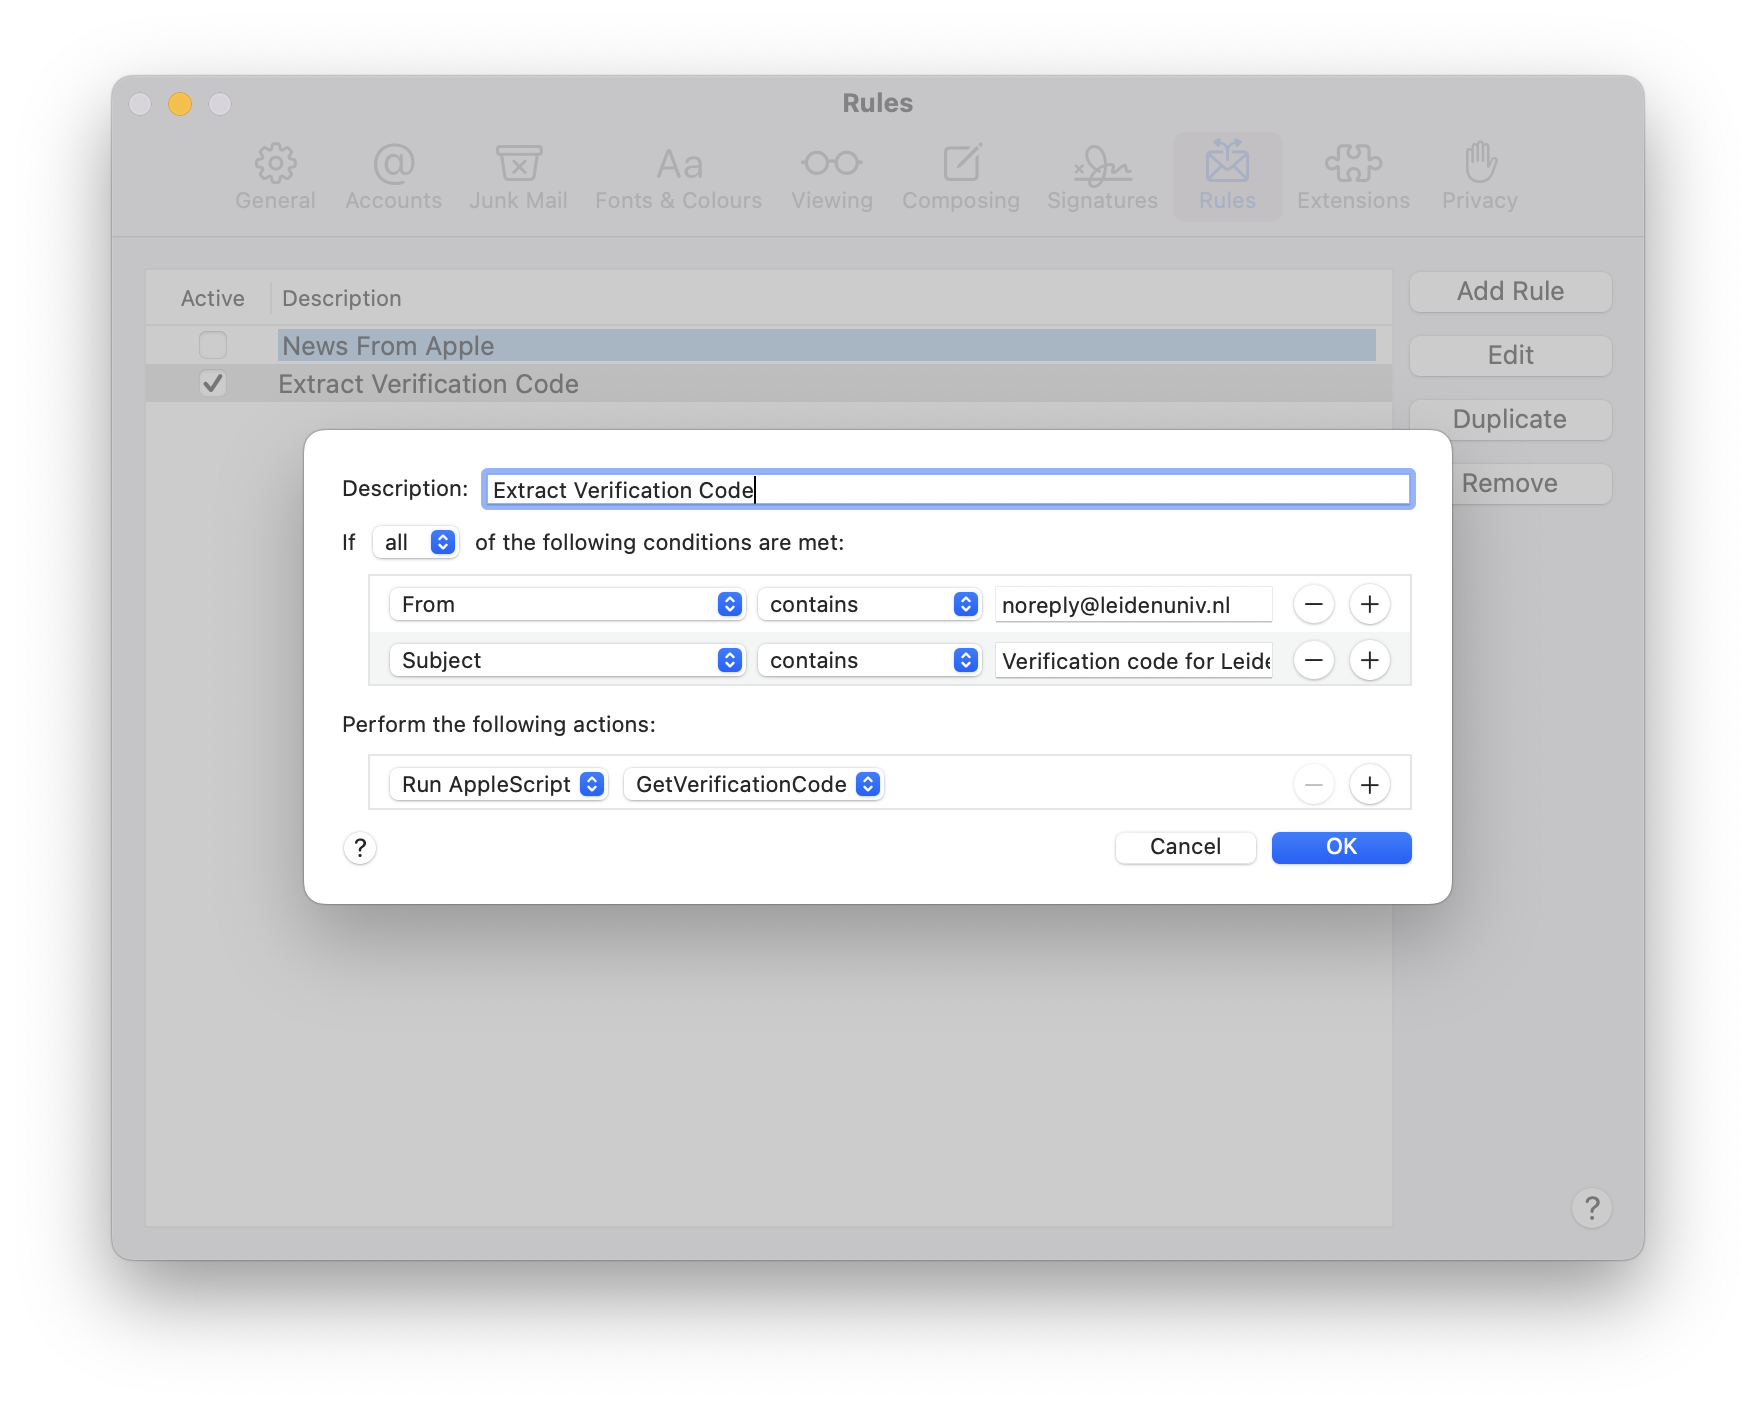
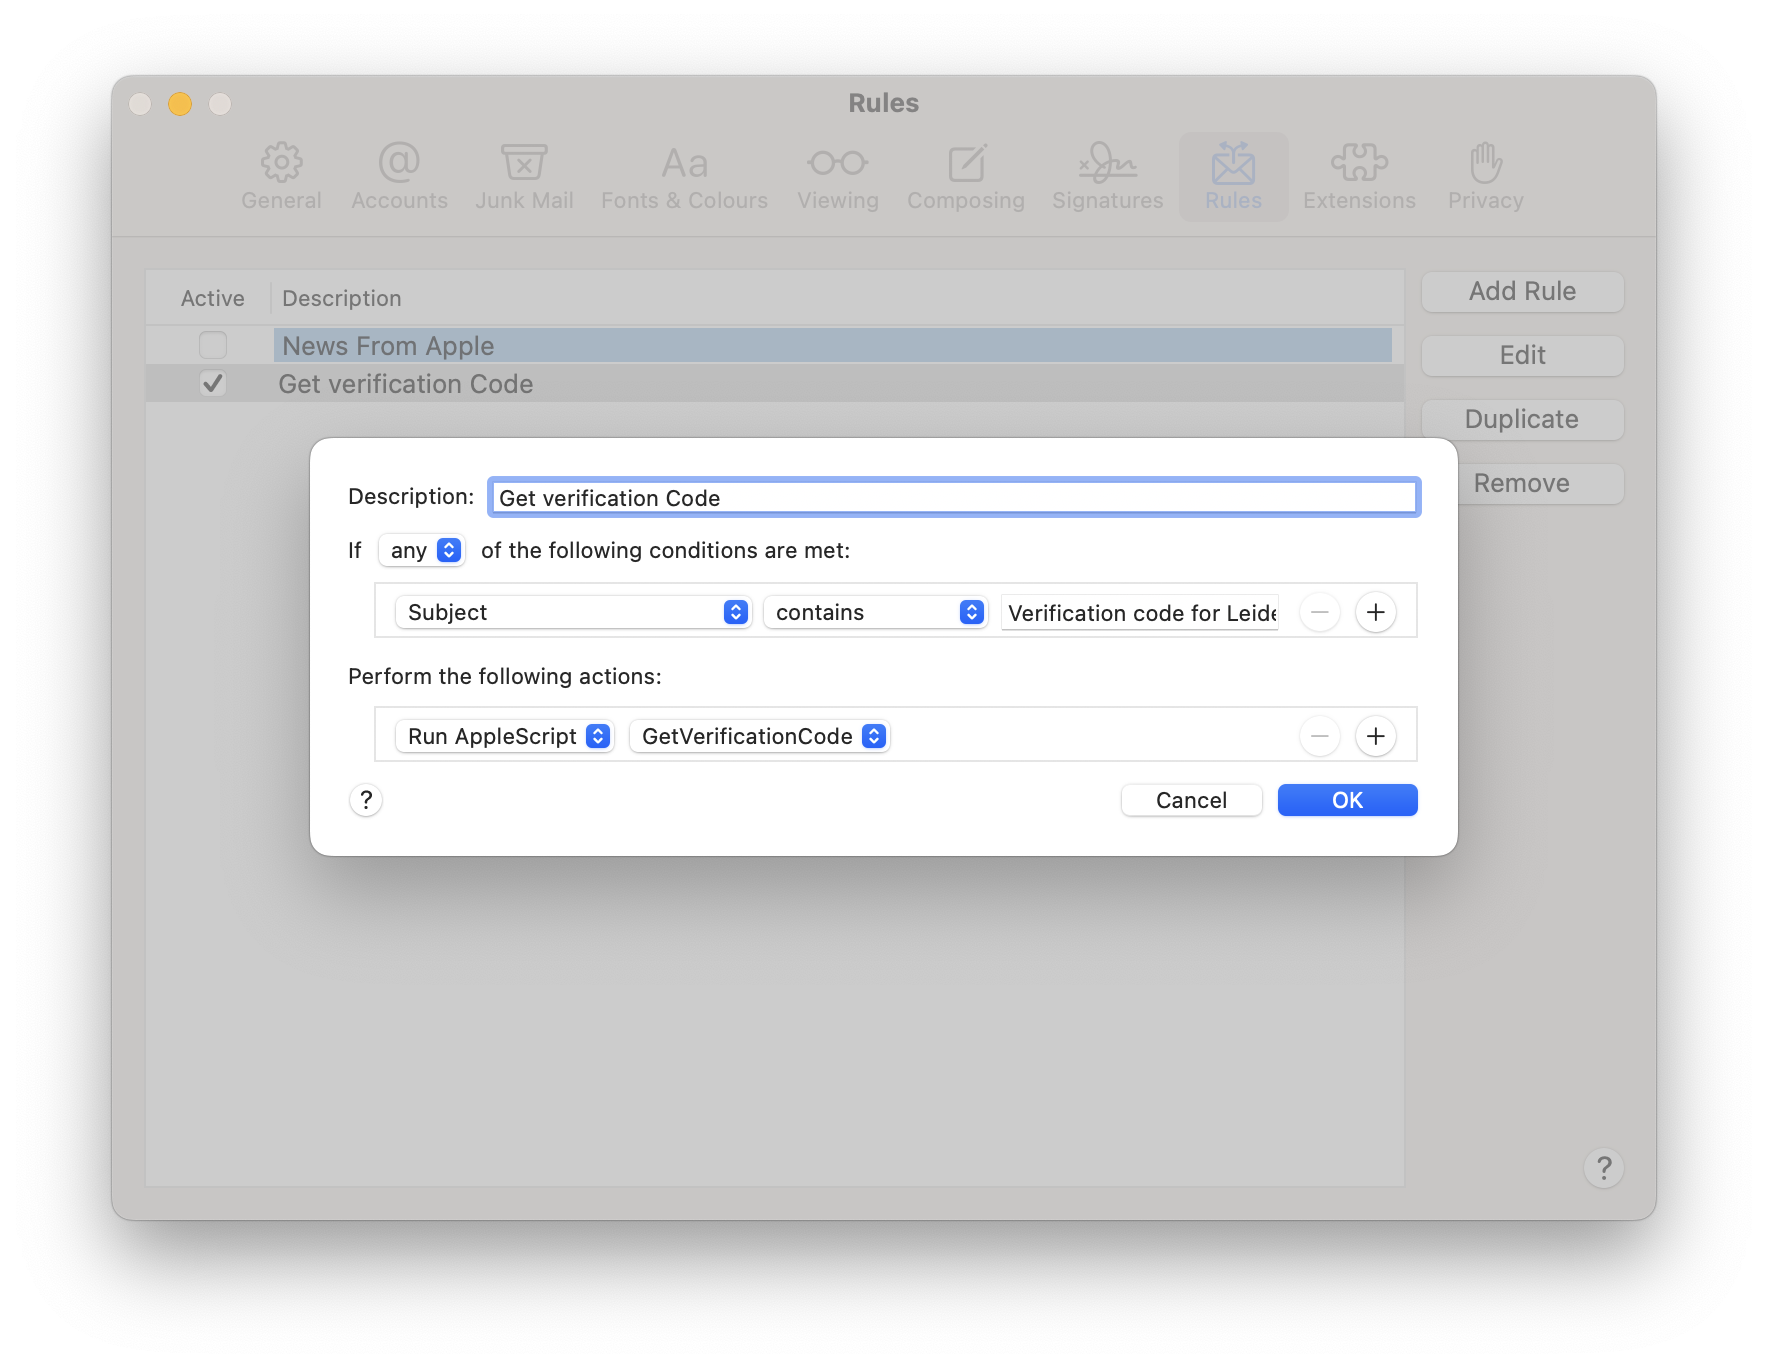
Update README.md
Should be a little bit cleaner now

diff --git a/README.md b/README.md
@@ -1,17 +1,14 @@
-leiden-login
-============
+# leiden-login
 
 Follow the instructions (**<5 min**) to never have to deal with copying and pasting verification codes again.
 
 This tool will extract the code as soon as the email hits your inbox and put it in your clipboard.
 
-All you will have to do is wait for the mail, and you can immediately paste the code.
+All you will have to do is wait for the mail to land in your inbox, and you can immediately paste the code (you'll hear a subtle chime when it's ready).
 
 The only prerequisites are that you are on macOS and use the default Mail app to receive emails.
 
-
-demo
-----
+## demo
 
 <fig>
 <img src="https://github.com/Josef-Hlink/leiden-login/blob/main/assets/demo.gif" width="960" alt="User logs in, gets a verification email and can paste the code immediately. The message is then automatically moved to trash."/>
@@ -19,13 +16,11 @@ demo
 
 As you can see, this should save you roughly 10 seconds when compared to manually copy-pasting, plus it keeps your inbox from being cluttered with countless verification codes.
 
-
-instructions
-------------
+## instructions
 
 ### step 1
 
-Download the script and move (`mv`) it to the the directory specified below.
+Download the script (_GetVerificationCode.applescript_) and move (`mv`) it to the the directory specified below.
 To do this just open a new terminal window and type the following two commands.
 
 ```bash
@@ -52,9 +47,6 @@ Click on "Add Rule", you should see this window pop up.
 
 Now you can simply fill in the forms to make it look like this:
 
-_! edit ! _ do not fill in the "From" rule, as this is apparently subject to change, the "Subject" rule should be specific enough.
-
-
 <fig>
 <img src="https://github.com/Josef-Hlink/leiden-login/blob/main/assets/rule-config.png" width="960" alt="Desired configuration for the new rule."/>
 </fig>
@@ -67,11 +59,15 @@ Verification code for Leiden University
 
 ### step 4
 
-Select the action to perform an applescript (the one you downloaded).
-If the script doesn't show up in this select menu, you can also just open this *magic* location in Finder and just drag the script into this folder.
+Select the action to perform an applescript (the one you downloaded and put into the right directory).
+If the script doesn't show up in this select menu, you can also open this *magic* location in Finder and just drag the script into this folder.
 
 <fig>
-<img src="https://github.com/Josef-Hlink/leiden-login/blob/main/assets/script-location.png" width="960" alt="Applescript location."/>
+<img src="https://github.com/Josef-Hlink/leiden-login/blob/main/assets/scripts-location.png" width="960" alt="Applescripts location."/>
 </fig>
 
 Congrats, if you log in to Brightspace every day, you will start saving time in a month :)
+
+## license
+
+MIT, so feel free to use, modify and redistribute this script.
